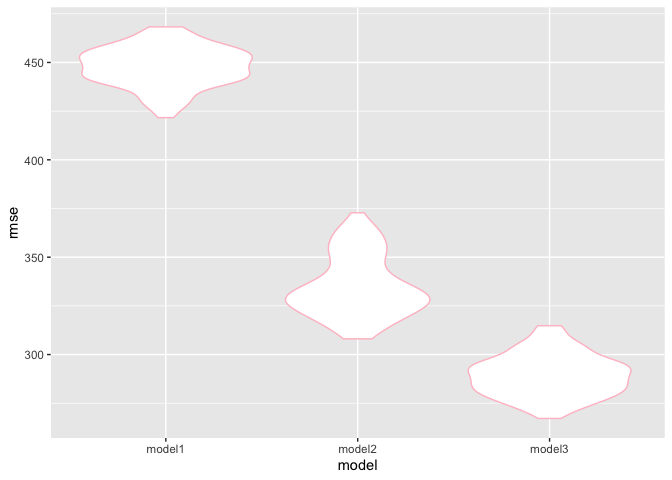
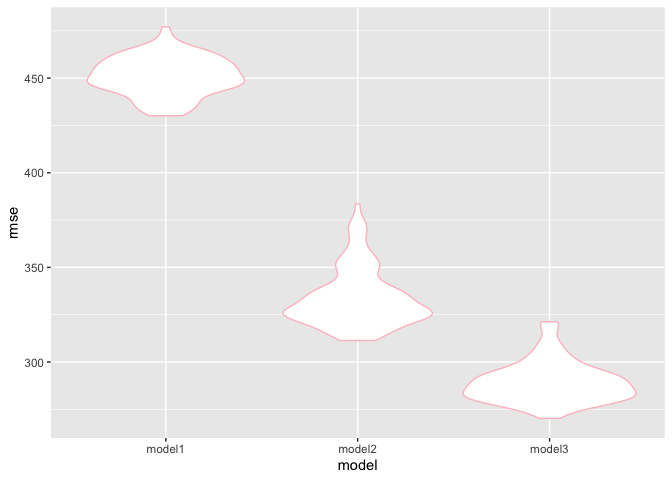
Loading data file, creating 5000 bootstrap sample

diff --git a/p8105_hw6_unp2000.md b/p8105_hw6_unp2000.md
@@ -2,6 +2,8 @@ p8105\_hw6\_unp2000
 ================
 Uma Palaniappan
 
+# Problem 1:
+
 ``` r
 child_data = read_csv("./data/birthweight.csv") %>%
 janitor::clean_names () %>%
@@ -148,14 +150,60 @@ cv_bwt
     ## # A tibble: 100 x 9
     ##    train test  .id   bw_model1 bw_model2 bw_model3 rmse_model1 rmse_model2
     ##    <lis> <lis> <chr> <list>    <list>    <list>          <dbl>       <dbl>
-    ##  1 <res… <res… 001   <lm>      <lm>      <lm>             467.        338.
-    ##  2 <res… <res… 002   <lm>      <lm>      <lm>             459.        343.
-    ##  3 <res… <res… 003   <lm>      <lm>      <lm>             445.        350.
-    ##  4 <res… <res… 004   <lm>      <lm>      <lm>             443.        328.
-    ##  5 <res… <res… 005   <lm>      <lm>      <lm>             424.        356.
-    ##  6 <res… <res… 006   <lm>      <lm>      <lm>             443.        332.
-    ##  7 <res… <res… 007   <lm>      <lm>      <lm>             430.        319.
-    ##  8 <res… <res… 008   <lm>      <lm>      <lm>             452.        352.
-    ##  9 <res… <res… 009   <lm>      <lm>      <lm>             456.        332.
-    ## 10 <res… <res… 010   <lm>      <lm>      <lm>             443.        356.
+    ##  1 <res… <res… 001   <lm>      <lm>      <lm>             458.        323.
+    ##  2 <res… <res… 002   <lm>      <lm>      <lm>             453.        317.
+    ##  3 <res… <res… 003   <lm>      <lm>      <lm>             477.        332.
+    ##  4 <res… <res… 004   <lm>      <lm>      <lm>             454.        371.
+    ##  5 <res… <res… 005   <lm>      <lm>      <lm>             444.        325.
+    ##  6 <res… <res… 006   <lm>      <lm>      <lm>             444.        326.
+    ##  7 <res… <res… 007   <lm>      <lm>      <lm>             440.        327.
+    ##  8 <res… <res… 008   <lm>      <lm>      <lm>             447.        365.
+    ##  9 <res… <res… 009   <lm>      <lm>      <lm>             460.        328.
+    ## 10 <res… <res… 010   <lm>      <lm>      <lm>             465.        357.
     ## # … with 90 more rows, and 1 more variable: rmse_model3 <dbl>
+
+# Problem 2:
+
+``` r
+weather_df = 
+  rnoaa::meteo_pull_monitors(
+    c("USW00094728"),
+    var = c("PRCP", "TMIN", "TMAX"), 
+    date_min = "2017-01-01",
+    date_max = "2017-12-31") %>%
+  mutate(
+    name = recode(id, USW00094728 = "CentralPark_NY"),
+    tmin = tmin / 10,
+    tmax = tmax / 10) %>%
+  select(name, id, everything())
+```
+
+    ## Registered S3 method overwritten by 'crul':
+    ##   method                 from
+    ##   as.character.form_file httr
+
+    ## Registered S3 method overwritten by 'hoardr':
+    ##   method           from
+    ##   print.cache_info httr
+
+    ## file path:          /Users/umapalaniappan/Library/Caches/rnoaa/ghcnd/USW00094728.dly
+
+    ## file last updated:  2019-09-26 10:26:03
+
+    ## file min/max dates: 1869-01-01 / 2019-09-30
+
+``` r
+set.seed(1)
+
+boot_function = function(df) {
+  sample_frac(df, size = 0.5, replace = TRUE)
+}
+```
+
+``` r
+boot_straps_sample = 
+  tibble(
+    strap_number = 1:5000,
+    strap_sample = rerun(5000, boot_function(weather_df))
+  )
+```
